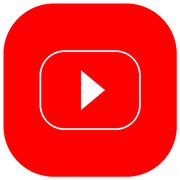
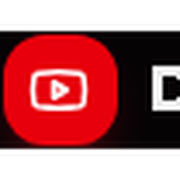
loren ipsun

diff --git a/extension/popup/popup.html b/extension/popup/popup.html
@@ -12,20 +12,12 @@
     <!-- Header -->
     <header class="header">
       <div class="brand">
-        <div class="logo-box">
-          <svg class="logo-icon" viewBox="0 0 24 24" fill="none">
-            <rect x="2.5" y="4.5" width="19" height="15" rx="3.5" stroke="#FFFFFF" stroke-width="2" />
-            <path d="M10 9L15.5 12L10 15V9Z" fill="#FFFFFF"/>
-          </svg>
-        </div>
-        <div class="brand-text">
-          <h1 class="brand-title">DARK<span class="highlight">CLIPS</span></h1>
-          <span class="brand-badge">EXTRATOR VIRAL</span>
-        </div>
-
+        <img src="../icons/logo.png" alt="DarkTube" class="brand-logo-img">
+        <span class="brand-sub-tag">CLIPS</span>
       </div>
 
       <div class="header-actions">
+
         <button id="settings-toggle" class="icon-btn" title="Configurações do Servidor">
           <svg class="btn-svg" viewBox="0 0 24 24" fill="none" stroke="currentColor" stroke-width="2" stroke-linecap="round" stroke-linejoin="round">
             <path d="M12.22 2h-.44a2 2 0 0 0-2 2v.18a2 2 0 0 1-1 1.73l-.43.25a2 2 0 0 1-2 0l-.15-.08a2 2 0 0 0-2.73.73l-.22.38a2 2 0 0 0 .73 2.73l.15.1a2 2 0 0 1 1 1.72v.51a2 2 0 0 1-1 1.74l-.15.09a2 2 0 0 0-.73 2.73l.22.38a2 2 0 0 0 2.73.73l.15-.08a2 2 0 0 1 2 0l.43.25a2 2 0 0 1 1 1.73V20a2 2 0 0 0 2 2h.44a2 2 0 0 0 2-2v-.18a2 2 0 0 1 1-1.73l.43-.25a2 2 0 0 1 2 0l.15.08a2 2 0 0 0 2.73-.73l.22-.39a2 2 0 0 0-.73-2.73l-.15-.08a2 2 0 0 1-1-1.74v-.5a2 2 0 0 1 1-1.74l.15-.09a2 2 0 0 0 .73-2.73l-.22-.38a2 2 0 0 0-2.73-.73l-.15.08a2 2 0 0 1-2 0l-.43-.25a2 2 0 0 1-1-1.73V4a2 2 0 0 0-2-2z"/>

diff --git a/extension/popup/popup.css b/extension/popup/popup.css
@@ -39,54 +39,28 @@ body {
 .brand {
   display: flex;
   align-items: center;
-  gap: 10px;
+  gap: 8px;
 }
 
-.logo-box {
-  width: 34px;
-  height: 34px;
-  background: #FF0000;
-  border-radius: 9px;
-  display: flex;
-  align-items: center;
-  justify-content: center;
-  box-shadow: 0 0 16px rgba(255, 0, 0, 0.65), 0 2px 8px rgba(0, 0, 0, 0.5);
-  flex-shrink: 0;
+.brand-logo-img {
+  height: 26px;
+  width: auto;
+  object-fit: contain;
+  filter: drop-shadow(0 0 12px rgba(255, 0, 0, 0.45));
 }
 
-
-.logo-icon {
-  width: 20px;
-  height: 20px;
-}
-
-.brand-text {
-  display: flex;
-  flex-direction: column;
-}
-
-.brand-title {
-  font-size: 16px;
-  font-weight: 900;
-  letter-spacing: -0.04em;
-  line-height: 1;
-  color: #ffffff;
-  text-transform: uppercase;
-}
-
-.highlight {
-  color: #FF0000;
-}
-
-
-.brand-badge {
+.brand-sub-tag {
+  background: rgba(255, 0, 0, 0.15);
+  border: 1px solid rgba(255, 0, 0, 0.35);
+  color: #ff4d4d;
   font-size: 9px;
-  font-weight: 700;
+  font-weight: 800;
+  padding: 2px 6px;
+  border-radius: 4px;
   letter-spacing: 0.08em;
-  color: #71717a;
-  margin-top: 3px;
   text-transform: uppercase;
 }
+
 
 .header-actions {
   display: flex;

diff --git a/scripts/extract_logo.py b/scripts/extract_logo.py
@@ -1,0 +1,50 @@
+from PIL import Image
+import os
+
+img = Image.open('public/darktube-logo.png').convert('RGBA')
+w, h = img.size
+
+# Find the bounding box of the red icon on the left
+# The icon is around x=0 to x=64, y=0 to y=61
+# Let's find pixels where red is prominent (r > 150 and r > g * 1.5)
+left, top, right, bottom = w, h, 0, 0
+for y in range(h):
+    for x in range(int(w * 0.45)):
+        r, g, b, a = img.getpixel((x, y))
+        if a > 30 and r > 100:
+            left = min(left, x)
+            top = min(top, y)
+            right = max(right, x)
+            bottom = max(bottom, y)
+
+print(f"Icon bbox: ({left}, {top}, {right}, {bottom})")
+
+# Crop the exact red icon
+padding = 1
+icon_crop = img.crop((max(0, left - padding), max(0, top - padding), min(w, right + padding + 1), min(h, bottom + padding + 1)))
+
+# Make it square
+iw, ih = icon_crop.size
+max_dim = max(iw, ih)
+square_icon = Image.new('RGBA', (max_dim, max_dim), (0, 0, 0, 0))
+offset_x = (max_dim - iw) // 2
+offset_y = (max_dim - ih) // 2
+square_icon.paste(icon_crop, (offset_x, offset_y), icon_crop)
+
+# Generate all target sizes
+os.makedirs('extension/icons', exist_ok=True)
+os.makedirs('public', exist_ok=True)
+
+square_icon.resize((16, 16), Image.Resampling.LANCZOS).save('extension/icons/icon16.png')
+square_icon.resize((48, 48), Image.Resampling.LANCZOS).save('extension/icons/icon48.png')
+square_icon.resize((128, 128), Image.Resampling.LANCZOS).save('extension/icons/icon128.png')
+
+square_icon.resize((32, 32), Image.Resampling.LANCZOS).save('public/icon-light-32x32.png')
+square_icon.resize((32, 32), Image.Resampling.LANCZOS).save('public/icon-dark-32x32.png')
+square_icon.resize((180, 180), Image.Resampling.LANCZOS).save('public/apple-icon.png')
+
+# Also save the full logo to extension/icons/logo.png
+img.save('extension/icons/logo.png')
+img.save('public/darktube-logo.png')
+
+print("All exact logo PNGs generated successfully from the original image!")
